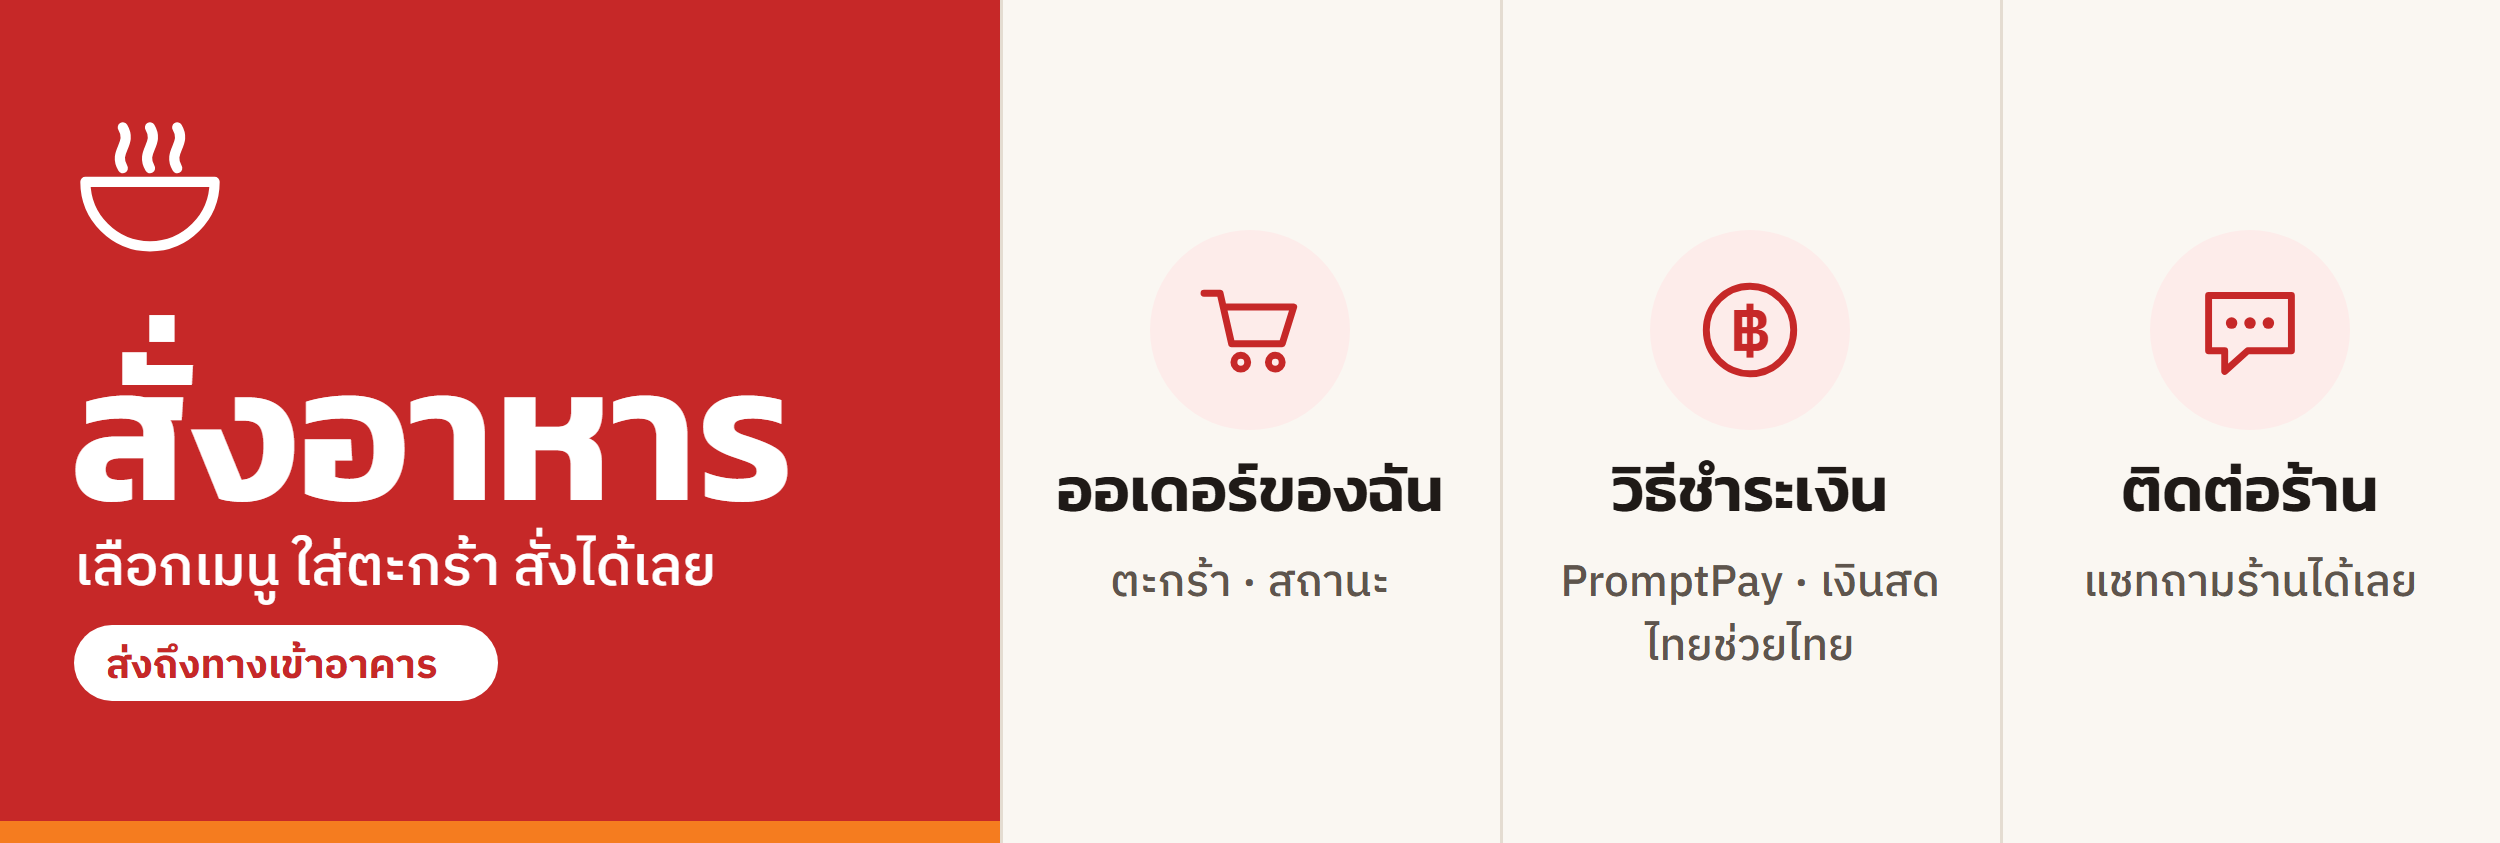
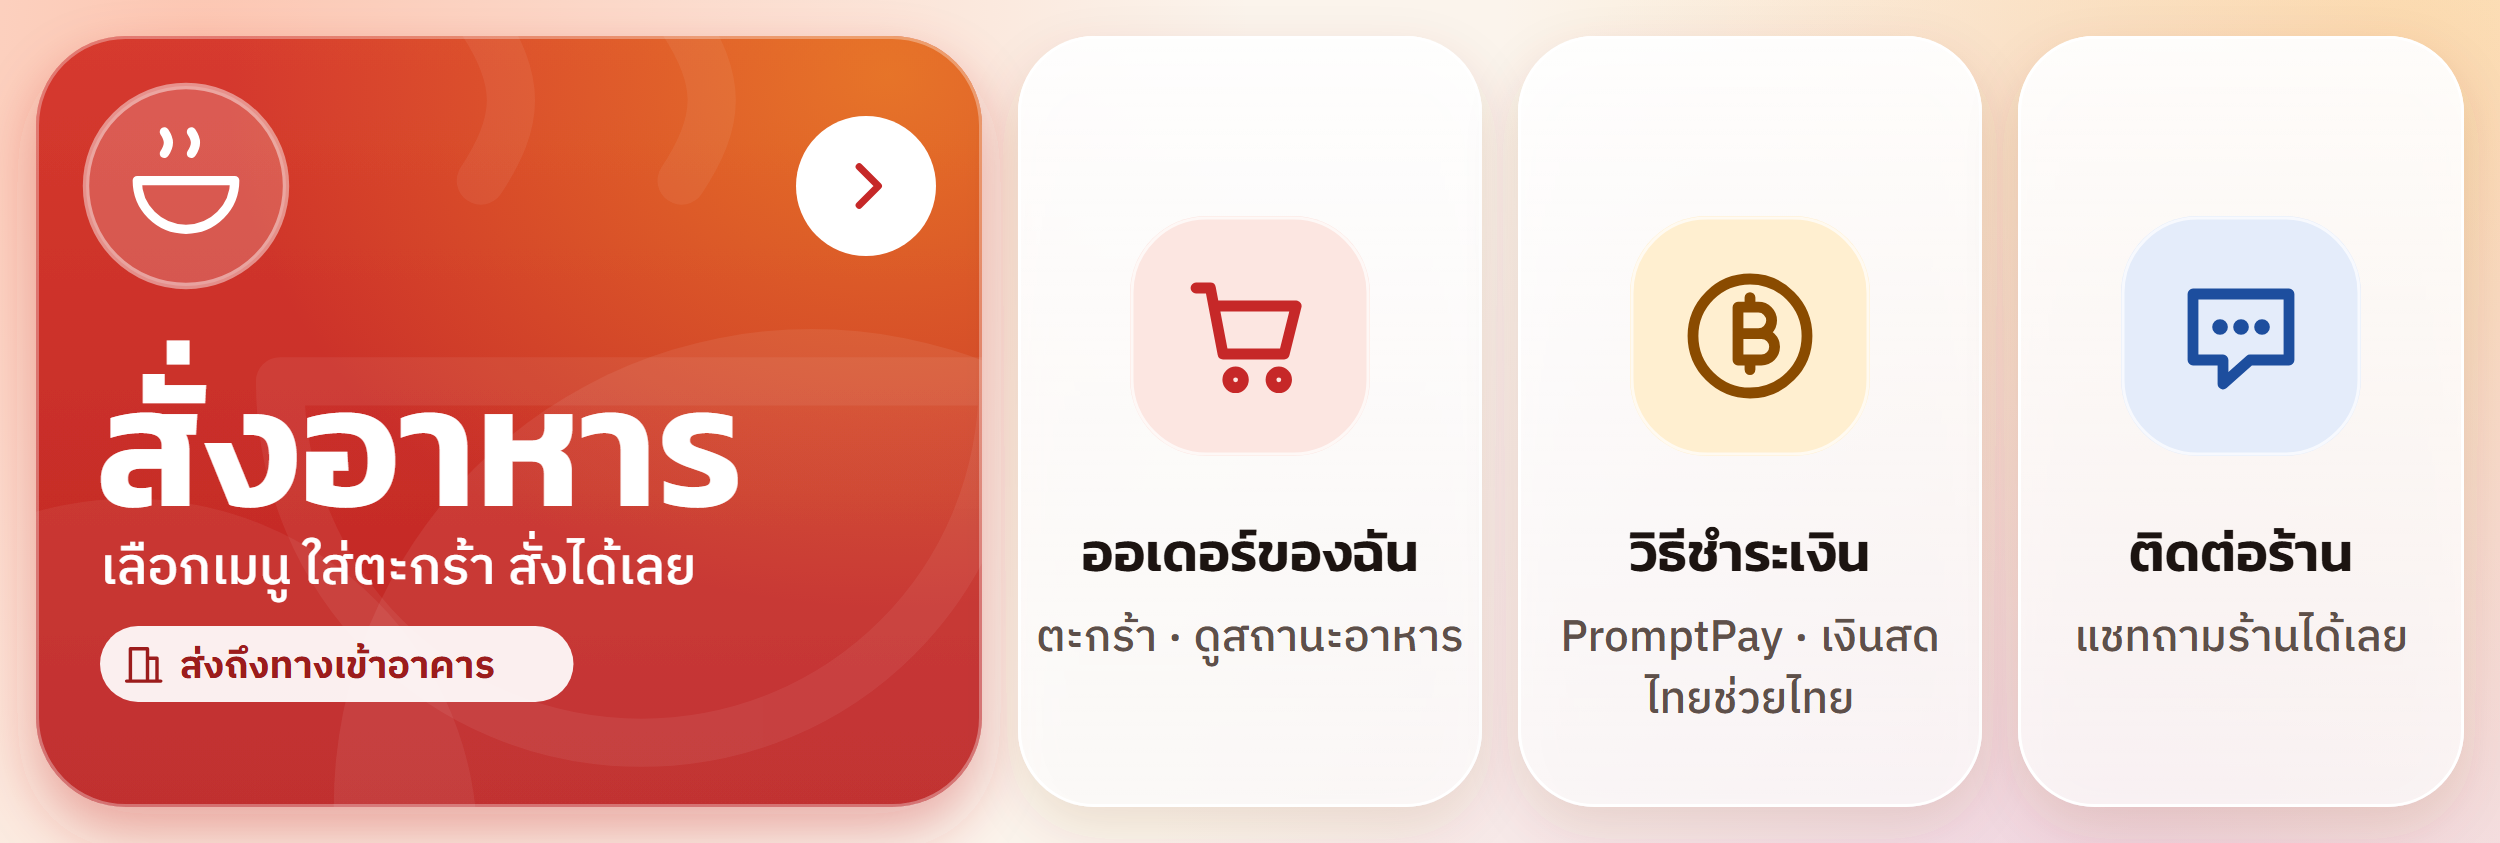
feat(design): rich menu redrawn in the web app style; privacy doc notes the profile job exists
Claude-Session: https://claude.ai/code/session_01UaBsLLC8xNDTdizNkszoS8

diff --git a/design/privacy-notice-th.md b/design/privacy-notice-th.md
@@ -30,7 +30,7 @@
 | ข้อมูล | ระยะเวลา |
 |---|---|
 | ชื่อผู้รับ ตึก และข้อมูลสมาชิกที่ติดอยู่กับออเดอร์ที่เสร็จแล้ว (ชื่อ ชื่อเล่น เบอร์โทร ตึก) | ลบออก (ทำให้ไม่ระบุตัวตน) **30 วันหลังออเดอร์เสร็จ** ส่วนรายการอาหารและยอดเงินเก็บไว้ทำบัญชี |
-| ข้อมูลสมาชิก (ชื่อ-นามสกุล ชื่อเล่น เบอร์โทรศัพท์ ตึก) | เก็บจนกว่าคุณขอลบ หรือจนครบ **24 เดือนหลังออเดอร์ล่าสุดของคุณ** แล้วร้านจะล้างข้อมูลนั้น ⚠ งานล้างอัตโนมัติยังไม่ได้สร้าง |
+| ข้อมูลสมาชิก (ชื่อ-นามสกุล ชื่อเล่น เบอร์โทรศัพท์ ตึก) | เก็บจนกว่าคุณขอลบ หรือจนครบ **24 เดือนหลังออเดอร์ล่าสุดของคุณ** แล้วร้านจะล้างข้อมูลนั้น (งานล้างอัตโนมัติ `retention-member-profiles` ทำงานทุกคืน) |
 | สมุดผู้รับ (ชื่อและตึกที่ระบบจำไว้ให้สั่งครั้งต่อไป) | เก็บจนถึง **30 วันหลังออเดอร์ล่าสุดของผู้รับคนนั้น** หรือจนกว่าคุณขอลบ แล้วแต่อย่างใดถึงก่อน |
 | รูปสลิป | ลบอัตโนมัติ **90 วัน** หลังการชำระเงินสิ้นสุด หรือทันทีเมื่อคุณขอลบข้อมูล |
 | บันทึกเหตุการณ์จาก LINE (ข้อความที่ส่งเข้าระบบ) | 30 วัน ⚠ ยังไม่ได้สร้างงานลบอัตโนมัติ |

diff --git a/design/rich-menu/README.md b/design/rich-menu/README.md
@@ -1,11 +1,13 @@
 # LINE rich menu art
 
+Style: the customer app "Hot bowl, calm glass" (chili gradient primary card, white glass tiles with tinted icon chips, app stroke icons, same palette and shadows). Preview at 390 px: `preview/phone-390.png`.
+
 Source of truth is `design/build/build-brand-art.mjs` (regenerates every file here and in `design/logo/`). Text is Thai only; colours and fonts come from [brand.md](../brand.md).
 
 | Variant | Image | Source | Tap areas |
 |---|---|---|---|
-| Full 2500x1686 (default) | `rich-menu-full.png` (157 KB) | `rich-menu-full.svg` | `rich-menu-full.json` |
-| Compact 2500x843 | `rich-menu-compact.png` (90 KB) | `rich-menu-compact.svg` | `rich-menu-compact.json` |
+| Full 2500x1686 (default) | `rich-menu-full.png` (926 KB) | `rich-menu-full.svg` | `rich-menu-full.json` |
+| Compact 2500x843 | `rich-menu-compact.png` (664 KB) | `rich-menu-compact.svg` | `rich-menu-compact.json` |
 
 LINE limits: PNG or JPEG, at most 1 MB, width 800-2500, aspect ratio at least 1.45. Both PNGs pass (the build script fails at 1 MB or more).
 
